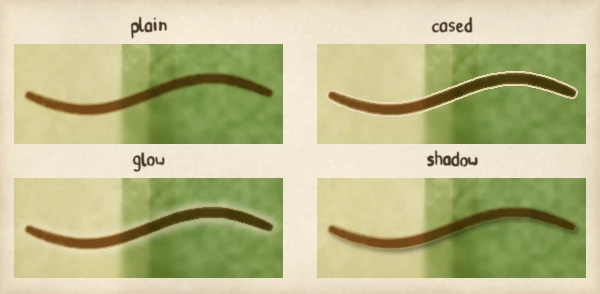
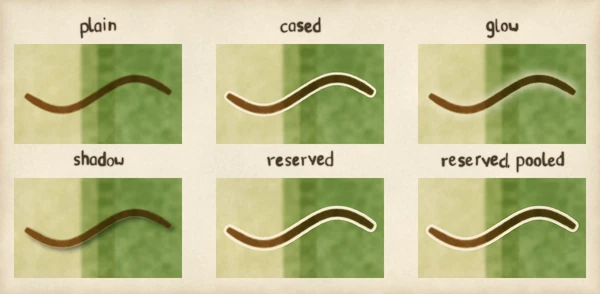
test(tests): regenerate the goldens once for the casing follow-up
Claude-Session: https://claude.ai/code/session_01FWNGTJLy72Gh2VopEVwzsE

diff --git a/tests/golden/test_map_styles.py b/tests/golden/test_map_styles.py
@@ -24,7 +24,7 @@ CARD_SIZE = (1800, 1281)
 MEAN_RGB: dict[str, tuple[float, float, float]] = {
     "pen-and-ink": (226.8, 221.4, 209.3),
     "sepia": (198.4, 168.6, 118.3),
-    "bold": (214.1, 209.6, 184.8),
+    "bold": (214.2, 209.7, 185.0),
     "winter": (206.2, 213.0, 218.5),
 }
 

diff --git a/specs/009a-line-effect-figures-and-galleries/images.md b/specs/009a-line-effect-figures-and-galleries/images.md
@@ -45,3 +45,49 @@ Lynmouth: every image byte-identical; `plates.json` hash `90193bbb26f681bf-ebe16
 - `reference/pigment-gallery-glazes.webp`
 - `reference/pigment-gallery-painters.webp`
 - `reference/pigment-gallery-roles.webp`
+
+## Follow-up: casings anti-aliased and painted at 2x
+
+Recorded by `diff_images.py --before` the tree at the pre-follow-up tip 9ef36cc6 `--after` a scratch repaint. 10 images and their 10 masters moved, 1 image and its master added, every other image unchanged. Lynmouth: every image byte-identical; `plates.json` hash `90193bbb26f681bf-ebe16b5246aeb21f` unchanged. `MEAN_RGB["bold"]` re-pinned from (214.1, 209.6, 184.8) to (214.2, 209.7, 185.0). Budgets: the 009a line-effects share is 361,066 bytes of 600,000 and the largest page image 230,762 bytes of 250,000; none edited.
+
+### Moved
+
+| File | Differing fraction | Extent | Reason | Judged at 2x |
+| --- | --- | --- | --- | --- |
+| `docs/images/explanation/line-effects-draw-order.webp` | 0.905005 | widespread | casings anti-aliased; third cell "casings as a union"; 2x | yes |
+| `docs/images/explanation/line-effects-glaze-or-rgb.webp` | 0.803141 | widespread | casing column anti-aliased; 2x | yes |
+| `docs/images/how-to/casing-sweep.webp` | 0.797262 | widespread | anti-aliased ring; 2x | yes |
+| `docs/images/how-to/glow-sweep.webp` | 0.760201 | widespread | painted at 2x | yes |
+| `docs/images/how-to/line-effects-presets.webp` | 0.133583 | widespread | the cased cell | yes |
+| `docs/images/how-to/line-effects.webp` | 0.210213 | widespread | the cased road_major | yes |
+| `docs/images/how-to/shadow-sweep.webp` | 0.786494 | widespread | painted at 2x | yes |
+| `docs/images/map-styles/bold.webp` | 0.222238 | widespread | the cased route | yes |
+| `docs/images/painting-with-python/cased-stroke.webp` | 0.876009 | widespread | anti-aliased casing; two reserve cells; 3 x 2; 2x | yes |
+| `docs/images/painting-with-python/pen-casing-sweep.webp` | 0.693121 | widespread | continuous edge lines; 2x | yes |
+| `tests/golden/docs/explanation/line-effects-draw-order.png` | 0.888506 | widespread | casings anti-aliased; third cell "casings as a union"; 2x | yes |
+| `tests/golden/docs/explanation/line-effects-glaze-or-rgb.png` | 0.735417 | widespread | casing column anti-aliased; 2x | yes |
+| `tests/golden/docs/how-to/casing-sweep.png` | 0.706397 | widespread | anti-aliased ring; 2x | yes |
+| `tests/golden/docs/how-to/glow-sweep.png` | 0.652824 | widespread | painted at 2x | yes |
+| `tests/golden/docs/how-to/line-effects-presets.png` | 0.013822 | local | the cased cell | yes |
+| `tests/golden/docs/how-to/line-effects.png` | 0.034332 | widespread | the cased road_major | yes |
+| `tests/golden/docs/how-to/shadow-sweep.png` | 0.695962 | widespread | painted at 2x | yes |
+| `tests/golden/docs/map-styles/bold.png` | 0.029825 | local | the cased route | yes |
+| `tests/golden/docs/painting-with-python/cased-stroke.png` | 0.865996 | widespread | anti-aliased casing; two reserve cells; 3 x 2; 2x | yes |
+| `tests/golden/docs/painting-with-python/pen-casing-sweep.png` | 0.690011 | widespread | continuous edge lines; 2x | yes |
+### Added
+
+- `how-to/reserve-sweep.webp` and its master `tests/golden/docs/how-to/reserve-sweep.png`: the reserve sweep, new (added by the sweeps track, repainted unchanged).
+
+### Verdicts (each image opened at 2x zoom)
+
+- `how-to/casing-sweep`: pass. The ring is smooth and continuous at every width, with no pixelation, dotting or ringing; the paynes_grey row reads as a dark outline.
+- `how-to/glow-sweep`: pass. Glow fades softly with no banding or halo ringing; the hard 2, 4 and 6 px rows are clean outlines.
+- `how-to/shadow-sweep`: pass. The south-east shadow is soft and smooth at 2x, with no stair-stepping.
+- `how-to/reserve-sweep`: pass. The reserve cells show a clean paper ring at each width, and the pool 0.3 row has a slightly softer margin than pool 0.
+- `painting-with-python/pen-casing-sweep`: pass. The edge lines run continuous round the bends with no dotted breaks, at 1 to 4 px gaps.
+- `painting-with-python/cased-stroke`: pass. The cased, glow and shadow cells are anti-aliased; the reserved and reserved pooled cells show the paper laid back without ringing.
+- `explanation/line-effects-draw-order`: pass. The union cell is one unbroken ring round the junction with no seam, unlike the per-stroke cell's inner cut.
+- `explanation/line-effects-glaze-or-rgb`: pass. The RGB casing ring is smooth; the glaze cell shows none, as intended.
+- `how-to/line-effects`: pass. The cased `road_major` ring is smooth and continuous along the roads, with no dotting.
+- `how-to/line-effects-presets`: pass. The cased cell shows a thin continuous ring; halo and lifted are soft with no ringing.
+- `map-styles/bold`: pass. The cream-cased route is continuous and anti-aliased round every bend.

diff --git a/docs/decisions/0071-golden-regeneration-route-colour-pigment-transparency-cased-bold.md b/docs/decisions/0071-golden-regeneration-route-colour-pigment-transparency-cased-bold.md
@@ -82,7 +82,7 @@ the default style, the six example themes and the four named themes, `SOURCED[Pa
 `SOURCED[CoverStyle]`, `GOLDEN_HASH`'s base half, and the Lynmouth manifest hash above; bold's
 `digest()` moves a second time for the cased route.
 
-## Added images (20, with a master each)
+## Added images (21, with a master each)
 
 Not moved: no pinned value changes. Each was added in its own slice.
 
@@ -108,6 +108,41 @@ Not moved: no pinned value changes. Each was added in its own slice.
 | `reference/pigment-gallery-glazes.webp` | none, added |
 | `reference/pigment-gallery-painters.webp` | none, added |
 | `reference/pigment-gallery-roles.webp` | none, added |
+| `how-to/reserve-sweep.webp` | none, added (casing follow-up) |
+
+## Follow-up: casings anti-aliased, a reserve and a union
+
+The casing follow-up repaints the casing figures anti-aliased and at 2x, and adds the reserve
+sweep. Against the pre-follow-up tip 9ef36cc6, 10 images and their 10 masters moved:
+
+| Image | Differing fraction | Extent | Reason |
+| --- | --- | --- | --- |
+| `docs/images/explanation/line-effects-draw-order.webp` | 0.905005 | widespread | casings anti-aliased; third cell "casings as a union"; 2x |
+| `docs/images/explanation/line-effects-glaze-or-rgb.webp` | 0.803141 | widespread | casing column anti-aliased; 2x |
+| `docs/images/how-to/casing-sweep.webp` | 0.797262 | widespread | anti-aliased ring; 2x |
+| `docs/images/how-to/glow-sweep.webp` | 0.760201 | widespread | painted at 2x |
+| `docs/images/how-to/line-effects-presets.webp` | 0.133583 | widespread | the cased cell |
+| `docs/images/how-to/line-effects.webp` | 0.210213 | widespread | the cased road_major |
+| `docs/images/how-to/shadow-sweep.webp` | 0.786494 | widespread | painted at 2x |
+| `docs/images/map-styles/bold.webp` | 0.222238 | widespread | the cased route |
+| `docs/images/painting-with-python/cased-stroke.webp` | 0.876009 | widespread | anti-aliased casing; two reserve cells; 3 x 2; 2x |
+| `docs/images/painting-with-python/pen-casing-sweep.webp` | 0.693121 | widespread | continuous edge lines; 2x |
+| `tests/golden/docs/explanation/line-effects-draw-order.png` | 0.888506 | widespread | casings anti-aliased; third cell "casings as a union"; 2x |
+| `tests/golden/docs/explanation/line-effects-glaze-or-rgb.png` | 0.735417 | widespread | casing column anti-aliased; 2x |
+| `tests/golden/docs/how-to/casing-sweep.png` | 0.706397 | widespread | anti-aliased ring; 2x |
+| `tests/golden/docs/how-to/glow-sweep.png` | 0.652824 | widespread | painted at 2x |
+| `tests/golden/docs/how-to/line-effects-presets.png` | 0.013822 | local | the cased cell |
+| `tests/golden/docs/how-to/line-effects.png` | 0.034332 | widespread | the cased road_major |
+| `tests/golden/docs/how-to/shadow-sweep.png` | 0.695962 | widespread | painted at 2x |
+| `tests/golden/docs/map-styles/bold.png` | 0.029825 | local | the cased route |
+| `tests/golden/docs/painting-with-python/cased-stroke.png` | 0.865996 | widespread | anti-aliased casing; two reserve cells; 3 x 2; 2x |
+| `tests/golden/docs/painting-with-python/pen-casing-sweep.png` | 0.690011 | widespread | continuous edge lines; 2x |
+
+The Lynmouth compare is unchanged: every image is byte-identical and `plates.json` stays at
+`90193bbb26f681bf-ebe16b5246aeb21f`. `MEAN_RGB["bold"]` is re-pinned from (214.1, 209.6, 184.8)
+to (214.2, 209.7, 185.0). `how-to/reserve-sweep.webp` and its master are added. Every moved
+image was opened at 2x zoom and judged before the one regeneration; the verdicts are in
+`specs/009a-line-effect-figures-and-galleries/images.md`.
 
 ## Retired image
 
@@ -120,4 +155,5 @@ Not moved: no pinned value changes. Each was added in its own slice.
 - A third-party theme that set `paper.pigment_transparency` fails with the new location named.
   An `extends` child's bare hex no longer keeps its parent's transparency for that class.
 - A pigment's retune repaints every theme naming it.
-- Any other moved image after this ADR is a defect in the slice that moved it.
+- Any other moved image after this ADR and its follow-up section is a defect in the slice that
+  moved it.

diff --git a/specs/009-line-effects-and-registry/followup-casing-tasks.md b/specs/009-line-effects-and-registry/followup-casing-tasks.md
@@ -138,16 +138,16 @@ Specs: `specs/009-line-effects-and-registry/followup-casing.md` (C slices) and
 - [x] No em or en dashes in human-facing prose; strict docs build; gate green.
 
 ### T6: judge, then regenerate once
-- [ ] Scratch repaint of every "Figures" image; `diff_images.py` against the pre-follow-up tip.
-- [ ] Each image opened at 2x zoom beside the research crops and judged for pixelation, dotted
+- [x] Scratch repaint of every "Figures" image; `diff_images.py` against the pre-follow-up tip.
+- [x] Each image opened at 2x zoom beside the research crops and judged for pixelation, dotted
       edges, ringing, the union cell and the reserve cells; verdicts in `images.md`; failures
       back to their track.
-- [ ] Budgets checked: share under 600,000 bytes, every page image under 250,000, no budget
+- [x] Budgets checked: share under 600,000 bytes, every page image under 250,000, no budget
       edited.
-- [ ] One regeneration: docs images, masters, `MEAN_RGB["bold"]`.
-- [ ] `images.md` follow-up section; ADR 0071 amended in place (table, Lynmouth compare, added
+- [x] One regeneration: docs images, masters, `MEAN_RGB["bold"]`.
+- [x] `images.md` follow-up section; ADR 0071 amended in place (table, Lynmouth compare, added
       reserve sweep, closing line).
-- [ ] `uv run pytest -m golden -n 2 --dist loadgroup` green with no further change; full gate
+- [x] `uv run pytest -m golden -n 2 --dist loadgroup` green with no further change; full gate
       green.
 
 ### T7: close PR 2
